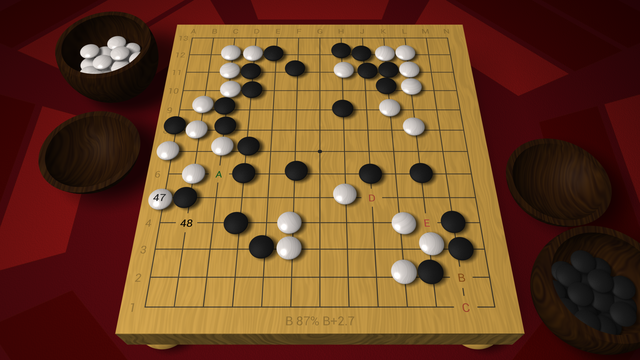
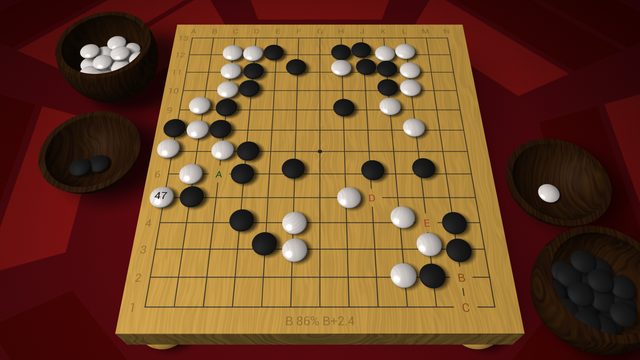
fix: prisoners have never been drawn, in any game
Spotted in the release screenshot: the bowls were empty at a position with two
black and one white stone captured. Not a quirk of that position — the bowls
have never held a prisoner in any game the program has rendered, and the
prisoner labels have read 0 for the whole of every game.

`GameState::capturedBlack` and `capturedWhite` were initialised to zero in the
constructor and **never assigned anywhere in the program**. Both displays read
them: syncPrisonerLabels() for the four labels, and GobanShader for
iBlackCapturedCount / iWhiteCapturedCount, which is the count deciding how many
stones the bowls contain. Board::capturedCount() had the right number the whole
time, which is why every assertion on `captured_black` passed and why nothing in
the suite could see this.

The earlier fix to these labels — "a quantity displayed in two places is written
by one function", which corrected a swapped pairing — was arranging two
permanently-zero numbers.

The fields are deleted. GameSnapshot carries the counts instead, published from
the Board, which is also what makes them safe to read every frame while the game
thread rebuilds that Board under the UI.

On where they belong, since the question is fair: the *count* is model data and
now lives in the snapshot. What stays on the view is
GobanView::capturedBlackShown — the record of what this view last handed the
shader. That is not a second copy of the truth, it is the per-view dirty check
[…]

diff --git a/src/ElementGame.cpp b/src/ElementGame.cpp
@@ -814,8 +814,16 @@ void ElementGame::syncPrisonerLabels() {
     const std::string blackTpl = templateText("templatePrisonersBlack", "Black: %d");
 
     // White's prisoners are the black stones taken, and vice versa.
-    const int whiteHasTaken = model.state.capturedBlack;
-    const int blackHasTaken = model.state.capturedWhite;
+    //
+    // From the Board, which is the only thing that counts captures.
+    // GameState::capturedBlack/capturedWhite were initialised to zero and never
+    // assigned anywhere, so these labels read 0 for the whole of every game, and
+    // the bowls stayed empty because the shader is handed the same dead numbers.
+    // Fixing the *pairing* of two permanently-zero values, as this function once
+    // did, could not show it.
+    const auto snap = model.snapshot();
+    const int whiteHasTaken = snap->capturedBlack;
+    const int blackHasTaken = snap->capturedWhite;
 
     for (const char* id : {"cntWhite", "lblPrisonersWhite"}) {
         if (auto* el = doc->GetElementById(id)) {
@@ -1219,15 +1227,25 @@ void ElementGame::OnUpdate()
         view.state.colorToMove = model.state.colorToMove;
         requestRepaint();
     }
-    if ((view.state.capturedBlack != model.state.capturedBlack)
-        || (view.state.capturedWhite != model.state.capturedWhite) /*stones captured */
+    const auto capturedSnap = model.snapshot();
+    const int boardCapturedBlack = capturedSnap->capturedBlack;
+    const int boardCapturedWhite = capturedSnap->capturedWhite;
+    if ((view.capturedBlackShown != boardCapturedBlack)
+        || (view.capturedWhiteShown != boardCapturedWhite) /*stones captured */
         || (view.state.reason != GameState::NO_REASON && model.state.reason == GameState::NO_REASON) /* new game */)
     {
         syncPrisonerLabels();
-        requestRepaint();
+        // UPDATE_STONES, not a bare repaint: these two numbers are uniforms
+        // (iBlackCapturedCount / iWhiteCapturedCount) that GobanShader uploads
+        // only under that flag, and they are what tell the shader how many
+        // stones to draw in the bowls. The default UPDATE_SOME copied the counts
+        // into the view and never got them to the GPU — the same shape as the
+        // annotation patch that travelled on one flag while its glyph travelled
+        // on another.
+        view.requestRepaint(GobanView::UPDATE_STONES);
 
-        view.state.capturedBlack = model.state.capturedBlack;
-        view.state.capturedWhite = model.state.capturedWhite;
+        view.capturedBlackShown = boardCapturedBlack;
+        view.capturedWhiteShown = boardCapturedWhite;
         view.state.reason = model.state.reason;
     }
     if(view.state.reservoirBlack != model.state.reservoirBlack

diff --git a/src/GobanView.h b/src/GobanView.h
@@ -409,6 +409,12 @@ public:
     /// the same 0.85-spacing strip of wood the readout uses at the bottom.
     /// Fixed to those two edges whether or not the readout is on, so nothing
     /// ever moves and they can never collide.
+    /// The two move markers. Neither is persisted, so both start on in a fresh
+    /// process — which is what makes a bare toggle deterministic in a script.
+    /// Exposed so a scenario can say so rather than assume it.
+    [[nodiscard]] bool isLastMoveOverlayShown() const { return showLastMoveOverlay; }
+    [[nodiscard]] bool isNextMoveOverlayShown() const { return showNextMoveOverlay; }
+
     bool toggleCoordinates();
     [[nodiscard]] bool areCoordinatesShown() const { return showCoordinates; }
     void setCoordinates(bool shown);
@@ -473,6 +479,20 @@ public:
     } cameraAnim;
 
     GameState state;
+
+    /// What this view last handed the shader — the uniforms deciding how many
+    /// stones are drawn in the bowls. **Not the prisoner count**: that is model
+    /// data and lives in GameSnapshot. This is the per-view record of what has
+    /// been drawn, so a second view of the same model keeps its own and
+    /// ElementGame::OnUpdate() can still do nothing when nothing has changed.
+    ///
+    /// The two roles used to share one field. GameState::capturedBlack was
+    /// serving as both the model's count and this shadow, and the model half was
+    /// never assigned anywhere — so the bowls stayed empty and the prisoner
+    /// labels read 0 for the whole of every game, while Board had the right
+    /// number all along.
+    int capturedBlackShown = 0;
+    int capturedWhiteShown = 0;
 
     std::atomic<int> updateFlag;  // Thread-safe: accessed from main thread and GameThread
 

diff --git a/src/GobanControl.cpp b/src/GobanControl.cpp
@@ -2121,6 +2121,13 @@ nlohmann::json GobanControl::dumpState() const {
     s["white_stones"]   = model.board.stonesOnBoard(Color::WHITE);
     s["captured_black"] = model.board.capturedCount(Color::BLACK);
     s["captured_white"] = model.board.capturedCount(Color::WHITE);
+    // What the *renderer* was handed, as against what the board knows. These
+    // are the uniforms that decide how many stones sit in the bowls, and they
+    // were permanently zero while the two keys above were right — so a scenario
+    // asserting only the board's count could not see it. Same distinction as
+    // sounds_played and overlay_glyphs.
+    s["prisoners_drawn_black"] = view.capturedBlackShown;
+    s["prisoners_drawn_white"] = view.capturedWhiteShown;
 
     // Lifecycle flags — the ones the Design Invariants are written about
     s["mode"]           = (engine.getGameMode() == GameMode::ANALYSIS) ? "analysis" : "match";
@@ -2262,6 +2269,8 @@ nlohmann::json GobanControl::dumpState() const {
         s["eval_readout_shown"] = view.isEvaluationReadoutShown();
         s["eval_align"] = GobanView::alignName(view.evaluationAlign());
         s["coordinates_shown"] = view.areCoordinatesShown();
+    s["last_move_shown"] = view.isLastMoveOverlayShown();
+    s["next_move_shown"] = view.isNextMoveOverlayShown();
         s["coord_color"] = hexFromColor(view.coordinateColor());
         s["coord_offset"] = view.coordinateOffset();
         s["eval_color"] = hexFromColor(view.readoutColor());

diff --git a/src/GobanModel.cpp b/src/GobanModel.cpp
@@ -33,7 +33,10 @@ void GobanModel::onBoardSized(int boardSize) {
 	calcCapturedWhite = 0;
 
     metrics.calc(boardSize);
-    calcCaptured(metrics, state.capturedBlack, state.capturedWhite);
+    // The arguments are overwritten with Metrics::maxc on entry: this lays out
+    // bowl positions for every slot, and the *count* uniforms decide how many
+    // are drawn. It never depended on a live capture count.
+    calcCaptured(metrics, 0, 0);
     state.metricsReady = true;
 
     // The record was replaced or resized out from under the UI. onBoardChange
@@ -291,6 +294,9 @@ void GobanModel::publishSnapshot() {
     next->hasResult     = game.hasGameResult();
     next->scoredEnd     = game.shouldShowTerritory();
     next->resultMessage = game.getResultMessage();
+    // From the Board, which is the only thing that counts captures.
+    next->capturedBlack = board.capturedCount(Color::BLACK);
+    next->capturedWhite = board.capturedCount(Color::WHITE);
     next->colorToMove   = game.getColorToMove();
     next->variationMoves = game.getVariations();
     next->variations    = next->variationMoves.size();

diff --git a/src/GameState.h b/src/GameState.h
@@ -44,7 +44,10 @@ public:
     Color colorToMove;
     std::string black;
     std::string white;
-    int capturedBlack, capturedWhite;
+    /// Prisoner counts do NOT live here. Board::capturedCount() is the only
+    /// thing that counts captures; these fields were initialised to zero and
+    /// never assigned, so every reader of them displayed 0 for the whole of
+    /// every game. See ElementGame::syncPrisonerLabels().
     int reservoirBlack, reservoirWhite;
     float komi;
     int handicap;
@@ -64,7 +67,7 @@ public:
     std::string passVariationLabel;  // e.g. "11b" when a pass variation exists during navigation
     std::string scoringError;  // Error detail for SCORING_FAILED message
 
-    GameState(): colorToMove(Color::BLACK), capturedBlack(0), capturedWhite(0),
+    GameState(): colorToMove(Color::BLACK),
                  reservoirBlack(32), reservoirWhite(32),
                  komi(0.5f), handicap(0), boardSize(19), result(0.0f), cmd("xxx"), msg(PAUSED),
                  reason(NO_REASON), scoreDelta(0.0f), winner(Color::EMPTY), metricsReady(false),

diff --git a/src/GameSnapshot.h b/src/GameSnapshot.h
@@ -58,6 +58,17 @@ struct GameSnapshot {
 
     GameState::Message resultMessage = GameState::NONE;
 
+    /// Prisoners at the cursor: stones of that colour removed from the board.
+    /// `capturedBlack` is what *White* has taken.
+    ///
+    /// Published rather than read off the model's Board, because the UI wants
+    /// them every frame — the prisoner labels and the count of stones the shader
+    /// draws in the bowls — while the game thread is free to rebuild that Board
+    /// under it. They lived in GameState before, where nothing ever assigned
+    /// them, so both displays read 0 for the whole of every game.
+    int capturedBlack = 0;
+    int capturedWhite = 0;
+
     // --- Stage 2: what the command handlers read ----------------------------
     // boardClick(), `pass` and keyPress() all consult the record to decide what
     // a click or a key means before handing the work to the game thread. They

diff --git a/src/GobanShader.cpp b/src/GobanShader.cpp
@@ -303,8 +303,8 @@ void GobanShader::draw(const GobanModel& model, int updateFlag, float time) cons
     glUniform2fv(iResolution, 1, glm::value_ptr(view.resolution));
     if (updateFlag & GobanView::UPDATE_STONES) {
         spdlog::debug("place stones via glBufferData()");
-        glUniform1i(iBlackCapturedCount,  view.state.capturedBlack);
-        glUniform1i(iWhiteCapturedCount, view.state.capturedWhite);
+        glUniform1i(iBlackCapturedCount,  view.capturedBlackShown);
+        glUniform1i(iWhiteCapturedCount, view.capturedWhiteShown);
         glUniform1i(iBlackReservoirCount,  static_cast<int>(view.state.reservoirBlack / 2));
         glUniform1i(iWhiteReservoirCount, static_cast<int>(view.state.reservoirWhite / 2));
         glUniform4fv(iddc, 2 * Metrics::maxc, model.metrics.tmpc);

diff --git a/src/GobanView.cpp b/src/GobanView.cpp
@@ -240,8 +240,8 @@ GobanView::GobanView(GobanModel& m)
     // Sync initial state from model to prevent stale default values (e.g., reservoir counts)
     state.reservoirBlack = model.state.reservoirBlack;
     state.reservoirWhite = model.state.reservoirWhite;
-    state.capturedBlack = model.state.capturedBlack;
-    state.capturedWhite = model.state.capturedWhite;
+    capturedBlackShown = model.snapshot()->capturedBlack;
+    capturedWhiteShown = model.snapshot()->capturedWhite;
     // Initialize colorToMove to EMPTY so first OnUpdate() will sync with model and update player toggle indicators
     state.colorToMove = Color::EMPTY;
 }

diff --git a/CLAUDE.md b/CLAUDE.md
@@ -493,6 +493,27 @@ See `tests/test_scoring.cpp`; every rule here comes from one hang on 2026-08-13.
 - **Keep `availableActions()` pure over plain data.** It must not take a `GobanModel` or `GameThread`: `isThinking()` reads a member only the game loop sets, so the engine-thinking cases would stop being testable — and they are half of what it decides.
 - **The UI thread must not read the SGF tree *or* `GameState`'s strings — it reads `GobanModel::snapshot()`.** The game thread owns that tree and mutates it freely; `GameRecord`'s const accessors take no lock, and its own mutex covers neither the readers nor half the mutators. `uiInputs()` and `dumpState()` take every record fact from the published `GameSnapshot` (ADR-0006). **Whoever changes what the UI displays must publish it**: `onBoardChange()` is the funnel that covers moves, navigation, load, switch, scoring and handicap; `createNewRecord()` and `onBoardSized()` publish for themselves because the new-game path bypasses it. A missed publish shows up as stale UI and the scenario suite catches it — both misses in the original change were caught on the first run. A plain scalar that changes off the position-change path becomes atomic instead, as `GameRecord::unsavedChanges` did; saving is not a position change. **ADR-0006 is complete through stage 5**: `comment`, `markup`, `scoringError` and `passVariationLabel` are all published, so nothing on a per-frame or per-keystroke path reads the record *or* copies a `GameState` string. The player dropdowns compare `getActivePlayer()` — a `size_t` handed out under `PlayerManager::mutex` — rather than `state.black`/`state.white`, because the index is what the widget holds and the string was a race for no information. `GobanModel::onBoardSized()` does `state = GameState()`, reassigning every one of those strings at once, which is the sharpest version of the hazard. What remains by design is listed in the ADR — `hasGameWorthKeeping()`, save/archive, and the dialog seed — all on explicit user actions. Note that `ElementGame`'s old `positionNumber` guard was not wrong, only insufficient: an atomic edge makes a write *visible* but grants no exclusion, so copying a `std::string` or walking a `std::vector` across it is still a use-after-free. The same partial-locking shape has now been found three times — `GameRecord`, `PlayerManager` (writers unlocked while readers locked), and the process pipes — so when a reader crosses this boundary, check the writers before assuming a mutex means anything.
 - **Widget state reads the phase, not `state.reason`.** They diverge after navigating back from a finished game: the phase returns to `Paused` while the reason stays set. See the `state.reason` invariant above.
+- **Prisoner counts come from `Board`, published in `GameSnapshot`. `GameState`
+  never held them.** `GameState::capturedBlack`/`capturedWhite` existed, were
+  initialised to zero and were **never assigned anywhere in the program** — while
+  `Board::capturedCount()` had the right number the whole time. Both readers took
+  the dead pair: the prisoner labels showed 0 for the whole of every game, and
+  the shader was handed 0 for `iBlackCapturedCount`, so **the bowls never held a
+  single prisoner in any game the program has ever rendered**. The fields are
+  gone; the snapshot carries the counts, which is also what makes them safe to
+  read every frame while the game thread rebuilds the board.
+  **The view keeps a shadow of what it last drew** (`GobanView::capturedBlackShown`)
+  and that is not a second copy of the truth — it is the per-view dirty check, so
+  a second view of the same model keeps its own and `OnUpdate()` still does
+  nothing when nothing changed. The two roles sharing one field is what hid this.
+  And the repaint it asks for must carry **`UPDATE_STONES`**: these are uniforms
+  that `GobanShader::shadeIt()` uploads only under that flag, so the bare
+  `requestRepaint()` copied the counts into the view and never got them to the
+  GPU — the same shape as the annotation patch that travelled on one flag while
+  its glyph travelled on another. Pinned by `board_click_stone_in_hand.scn`
+  through `prisoners_drawn_white`, which reports what the *renderer* was handed:
+  every assertion on `captured_white` passed throughout, because the Board was
+  right all along. Same distinction as `sounds_played`.
 - **A quantity displayed in two places is written by one function.**
   `ElementGame::syncPrisonerLabels()` writes all four prisoner labels. It was two
   copies, and they disagreed: `capturedBlack` counts *black stones removed*, so
